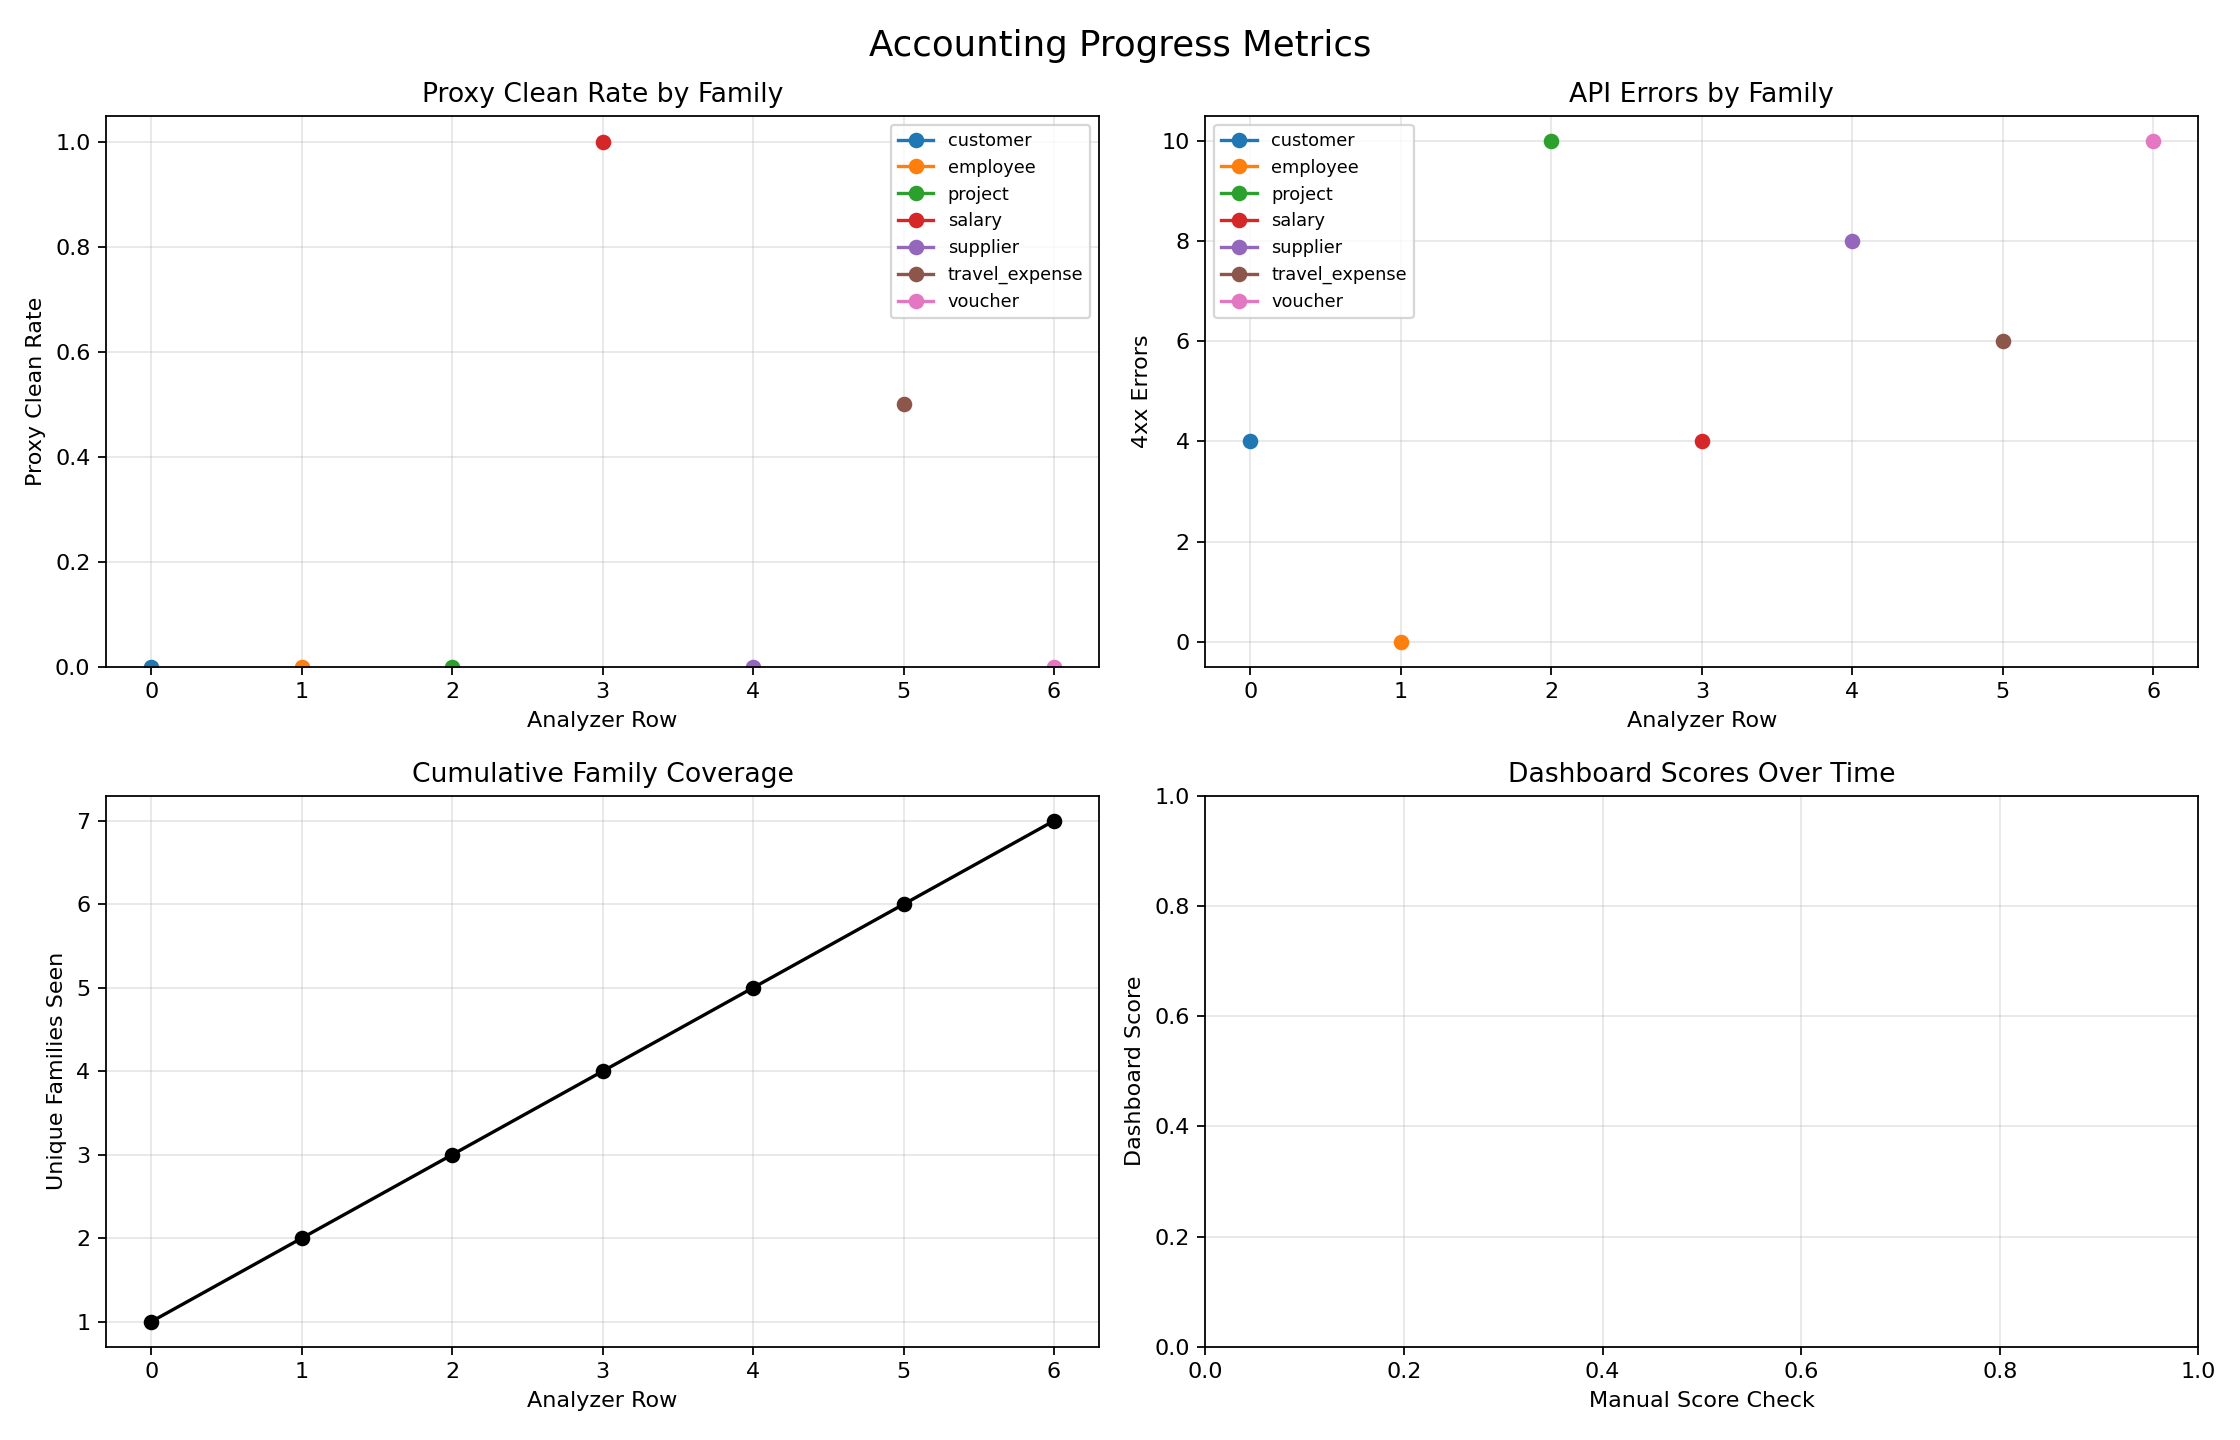
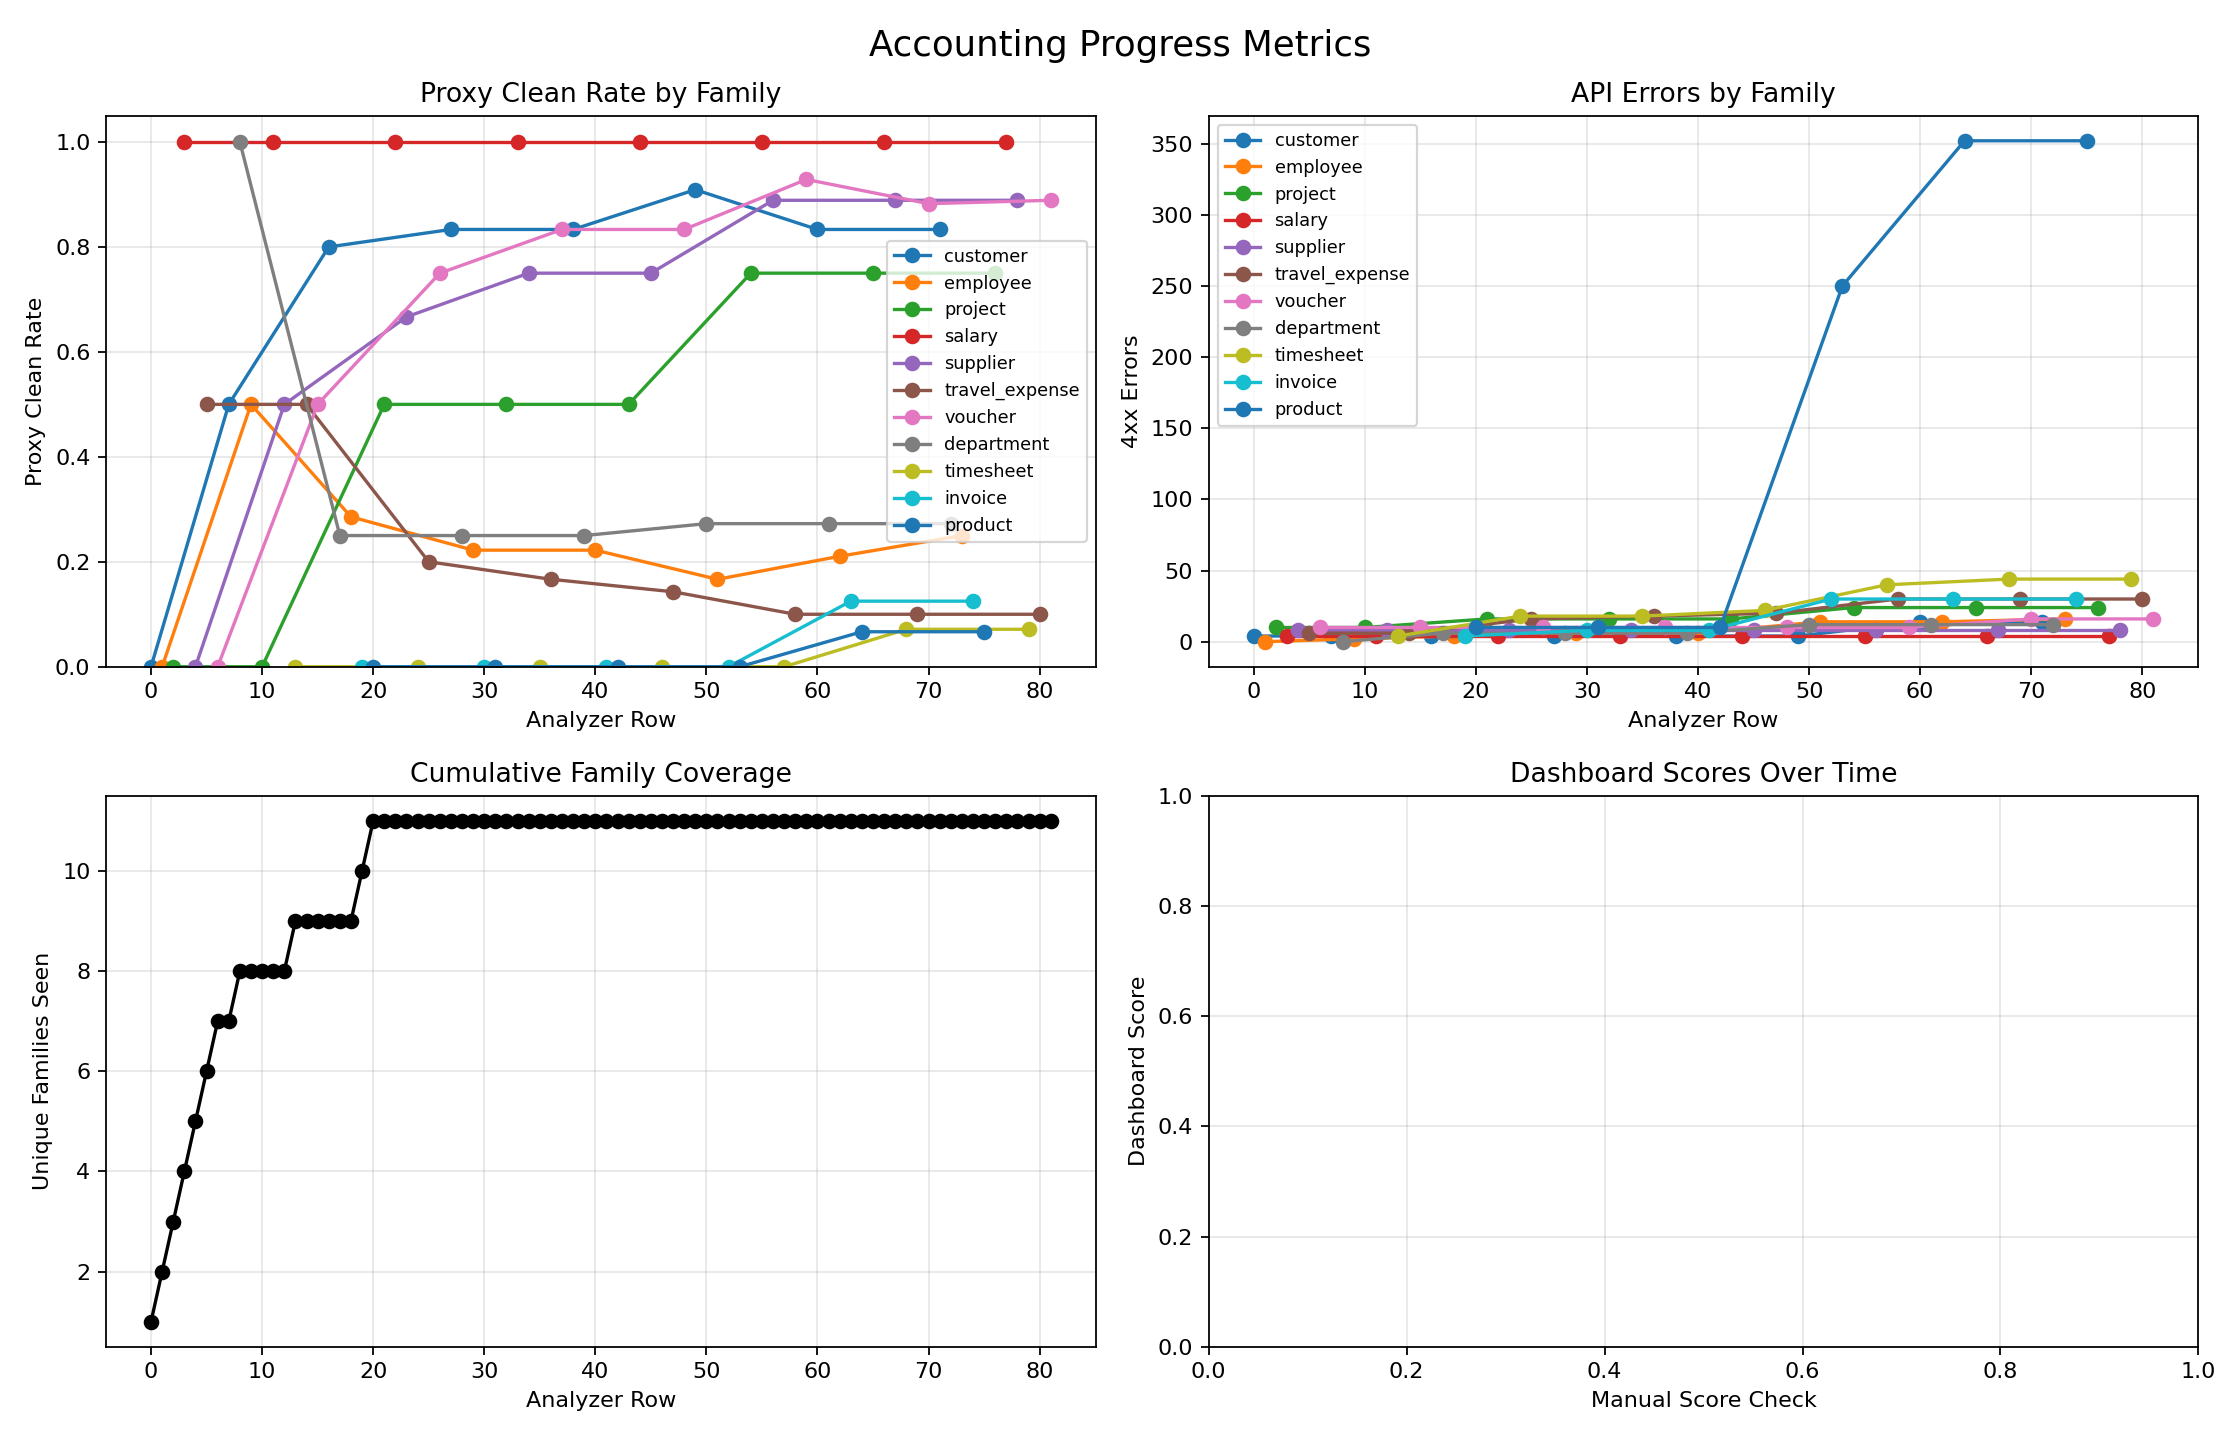
fix: remove invalid fields from employment POST, travel rateCategory
- Employment: remove percentageOfFullTimeEquivalent and occupationCode
  from POST /employee/employment (not in API schema, causes 422)
  These go on employment/details instead.
- Travel: per diem rateCategory resolution picks best match when
  /travelExpense/rate returns empty
- Employee entitlement: fallback to allowInformationRegistration=true

diff --git a/tasks/accounting/server/actions.py b/tasks/accounting/server/actions.py
@@ -189,7 +189,19 @@ async def _grant_employee_all_privileges(client: TripletexClient, employee_id: i
         log.info(f"Granted ALL_PRIVILEGES to employee {employee_id}")
         return
     except Exception as e:
-        log.warning(f"Entitlement template failed (non-fatal): {e}")
+        log.warning(f"Entitlement template failed: {e}")
+
+    # Fallback: set allowInformationRegistration + userType via PUT on employee
+    try:
+        emp_data = await client.get(f"/employee/{employee_id}")
+        emp = emp_data.get("value", emp_data)
+        emp["allowInformationRegistration"] = True
+        emp["userType"] = "EXTENDED"
+        await client.put(f"/employee/{employee_id}", json=emp)
+        log.info(f"Set allowInformationRegistration+EXTENDED on employee {employee_id} via PUT")
+        return
+    except Exception as e2:
+        log.warning(f"PUT employee fallback also failed: {e2}")
 
 
 def _is_placeholder_employee(employee: dict | None) -> bool:
@@ -488,14 +500,11 @@ async def action_create_employee(client: TripletexClient, args: dict) -> dict:
             employment_body = {
                 "employee": {"id": employee_id},
                 "startDate": args["startDate"],
-                "employmentType": args.get("employmentType", "ORDINARY"),
             }
             if args.get("endDate"):
                 employment_body["endDate"] = args["endDate"]
-            if args.get("percentageOfFullTimeEquivalent"):
-                employment_body["percentageOfFullTimeEquivalent"] = float(args["percentageOfFullTimeEquivalent"])
-            if args.get("occupationCode"):
-                employment_body["occupationCode"] = {"code": str(args["occupationCode"])}
+            # percentageOfFullTimeEquivalent and occupationCode belong on
+            # employment/details, NOT employment itself
             await client.post("/employee/employment", json=employment_body)
         except Exception as e:
             log.warning(f"Employment creation failed: {e}")

diff --git a/tasks/accounting/analysis/latest_log_analysis.md b/tasks/accounting/analysis/latest_log_analysis.md
@@ -1,26 +1,37 @@
 # Accounting Log Analysis
 
-Analyzed `137` runs from `/tmp/accounting-logs`.
+Analyzed `144` runs from `/tmp/accounting-logs`.
 
 ## Global
 
-- Seen families: customer, department, employee, invoice, product, project, salary, supplier, timesheet, travel_expense, voucher
+- Seen families: bank_reconciliation, customer, department, employee, invoice, product, project, salary, supplier, timesheet, travel_expense, voucher
 - New families since last run: none
-- Unseen playbook families: bank_reconciliation, ledger_correction
+- Unseen playbook families: annual_close, ledger_correction
 - Empty attachment runs: 0
 
 ## Alerts
 
-- department clean rate is 27.3%; blockers: duplicate_identifier; likely missing fields: none
+- department clean rate is 25.0%; blockers: duplicate_identifier; likely missing fields: none
 - employee clean rate is 25.0%; blockers: email_validation; likely missing fields: employee, department
-- invoice clean rate is 12.5%; blockers: sandbox_valid_vat_type, vat_account_mapping; likely missing fields: none
-- product clean rate is 6.7%; blockers: sandbox_valid_vat_type; likely missing fields: none
-- timesheet clean rate is 7.1%; blockers: sandbox_valid_vat_type, employee_time_access, activity_type_required, vat_account_mapping; likely missing fields: activity, project, employee, hours
-- travel_expense clean rate is 10.0%; blockers: employee_time_access, travel_expense_kind, travel_expense_contents_required, per_diem_rate_required; likely missing fields: delivered_state, rate_type, employee, project
+- invoice clean rate is 22.2%; blockers: sandbox_valid_vat_type, vat_account_mapping; likely missing fields: none
+- product clean rate is 6.2%; blockers: sandbox_valid_vat_type; likely missing fields: none
+- timesheet clean rate is 6.7%; blockers: sandbox_valid_vat_type, employee_time_access, activity_type_required, vat_account_mapping; likely missing fields: activity, project, employee, hours
+- travel_expense clean rate is 16.7%; blockers: employee_time_access, travel_expense_kind, travel_expense_contents_required, per_diem_rate_required; likely missing fields: delivered_state, rate_type, employee, project
 - travel_expense remains partial: focus on delivered_state, rate_type, travel_expense typing, and per-diem completion before broad retries
-- Still unseen families: bank_reconciliation, ledger_correction
+- Still unseen families: annual_close, ledger_correction
 
 ## Families
+
+### bank_reconciliation
+
+- Runs: 1
+- Proxy clean rate: 100.0%
+- Likely full runs: 1
+- Likely partial runs: 0
+- Mean API errors: 0.00
+- Prompt-required fields: none
+- Likely blockers: none
+- Missing-field hypotheses: none
 
 ### customer
 
@@ -36,11 +47,11 @@ Analyzed `137` runs from `/tmp/accounting-logs`.
 
 ### department
 
-- Runs: 11
-- Proxy clean rate: 27.3%
+- Runs: 12
+- Proxy clean rate: 25.0%
 - Likely full runs: 2
 - Likely partial runs: 1
-- Mean API errors: 1.09
+- Mean API errors: 1.00
 - Prompt-required fields: none
 - Likely blockers: duplicate_identifier
 - Missing-field hypotheses: none
@@ -60,11 +71,11 @@ Analyzed `137` runs from `/tmp/accounting-logs`.
 
 ### invoice
 
-- Runs: 8
-- Proxy clean rate: 12.5%
-- Likely full runs: 1
+- Runs: 9
+- Proxy clean rate: 22.2%
+- Likely full runs: 2
 - Likely partial runs: 1
-- Mean API errors: 3.75
+- Mean API errors: 3.33
 - Prompt-required fields: none
 - Likely blockers: sandbox_valid_vat_type, vat_account_mapping
 - Missing-field hypotheses: none
@@ -72,11 +83,11 @@ Analyzed `137` runs from `/tmp/accounting-logs`.
 
 ### product
 
-- Runs: 15
-- Proxy clean rate: 6.7%
+- Runs: 16
+- Proxy clean rate: 6.2%
 - Likely full runs: 1
 - Likely partial runs: 2
-- Mean API errors: 23.47
+- Mean API errors: 22.00
 - Prompt-required fields: none
 - Likely blockers: sandbox_valid_vat_type
 - Missing-field hypotheses: none
@@ -120,25 +131,25 @@ Analyzed `137` runs from `/tmp/accounting-logs`.
 
 ### timesheet
 
-- Runs: 14
-- Proxy clean rate: 7.1%
+- Runs: 15
+- Proxy clean rate: 6.7%
 - Likely full runs: 1
 - Likely partial runs: 3
-- Mean API errors: 3.14
+- Mean API errors: 3.40
 - Prompt-required fields: project, activity
 - Likely blockers: sandbox_valid_vat_type, employee_time_access, activity_type_required, vat_account_mapping, project_hourly_rates_endpoint
-- Missing-field hypotheses: activity, project, employee, hours
+- Missing-field hypotheses: activity, project, employee, hours, department
 - Top error: /timesheet/entry: HTTP 422 with no captured body
 - Hypothesis: Scorer likely checks the resolved employee, project, activity, date, and exact hours, not just whether `/timesheet/entry` was posted.
 - Hypothesis: Combined prompts may also require downstream invoice linkage after the hours are logged.
 
 ### travel_expense
 
-- Runs: 10
-- Proxy clean rate: 10.0%
-- Likely full runs: 0
+- Runs: 12
+- Proxy clean rate: 16.7%
+- Likely full runs: 1
 - Likely partial runs: 3
-- Mean API errors: 3.00
+- Mean API errors: 2.92
 - Prompt-required fields: per_diem, duration, departure_or_destination
 - Likely blockers: employee_time_access, travel_expense_kind, travel_expense_contents_required, per_diem_rate_required, rate_category_date_mismatch
 - Missing-field hypotheses: delivered_state, rate_type, employee, project, travel_expense_type_or_travel_details, cost_lines_or_allowances
